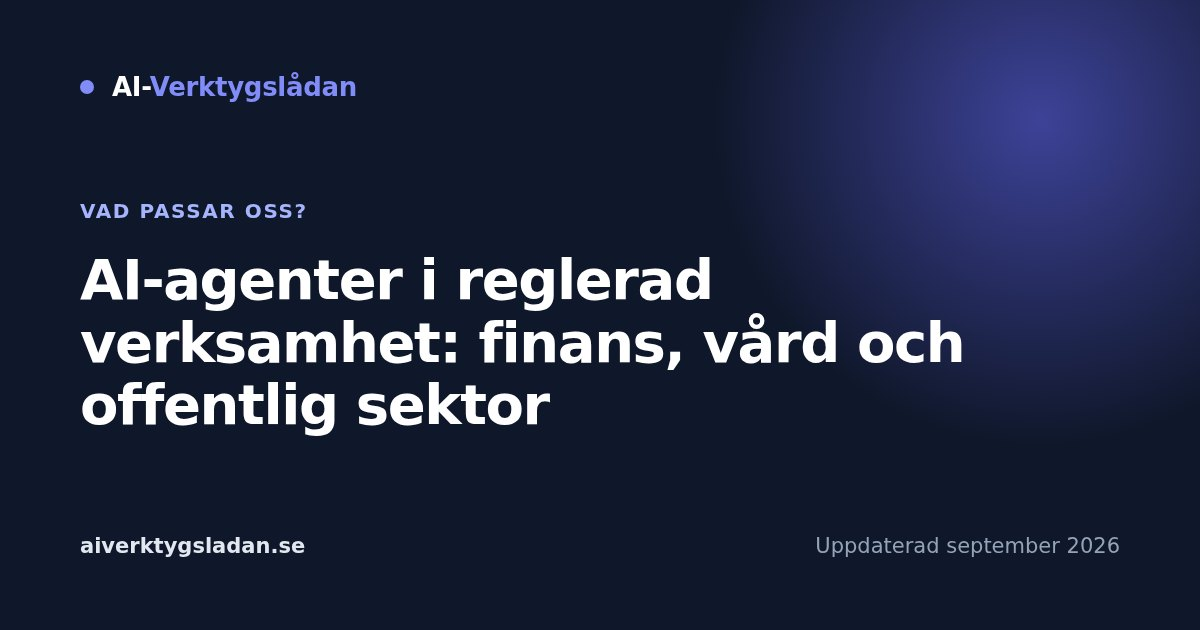
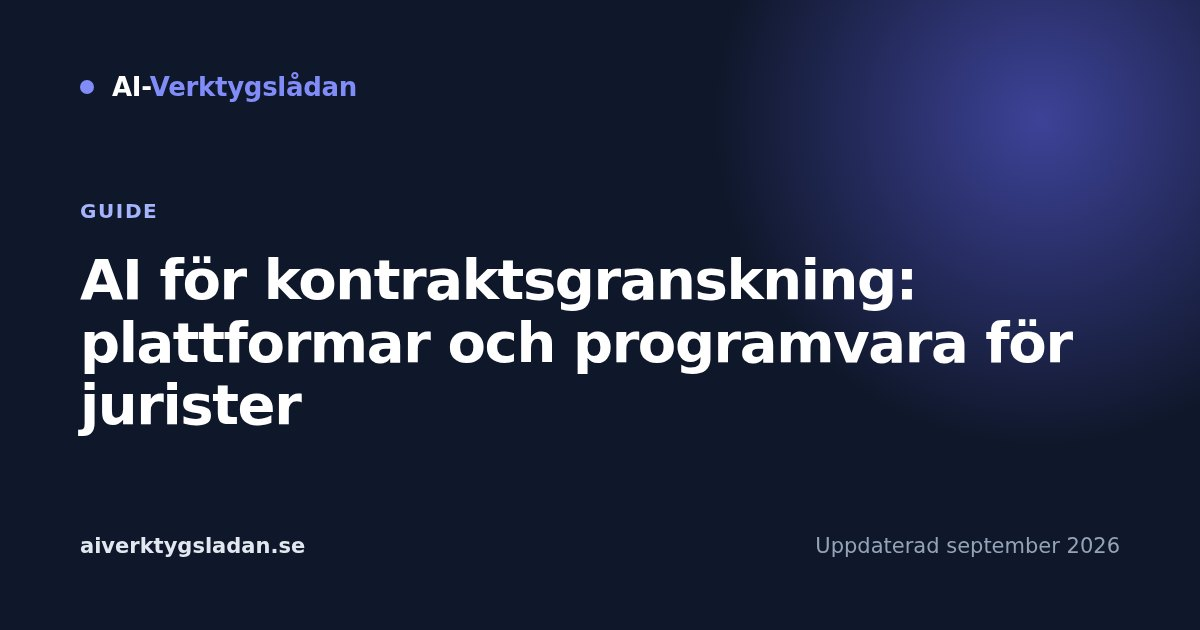
Kontraktsgranskning: svar på startsidan, ny title/H1/OG-bild och internlänkar

Changed region(s): [[0.0617, 0.3921, 0.8942, 0.6937], [0.0617, 0.3016, 0.2467, 0.3619]]

diff --git a/static/ai-kontraktsgranskning-advokatbyra.html b/static/ai-kontraktsgranskning-advokatbyra.html
@@ -12,7 +12,7 @@
 
     <meta charset="UTF-8">
     <meta name="viewport" content="width=device-width, initial-scale=1.0">
-    <title>AI-agent för kontraktsgranskning på advokatbyrå – plattformar och kalkyl | AI-Verktygslådan</title>
+    <title>AI för kontraktsgranskning: plattformar och programvara för jurister | AI-Verktygslådan</title>
     <link rel="stylesheet" href="/static/css/site.css">
     <link rel="preconnect" href="https://fonts.googleapis.com">
     <link rel="preconnect" href="https://fonts.gstatic.com" crossorigin>
@@ -21,12 +21,12 @@
     <!-- SEO -->
     <link rel="icon" type="image/svg+xml" href="/static/favicon.svg">
     <meta name="robots" content="index, follow">
-    <meta name="description" content="Vilka AI-plattformar för jurister snabbar upp kontraktsgranskning? En agent förgranskar mot checklista och flaggar avvikelser – juristen beslutar alltid.">
+    <meta name="description" content="Vilka AI-plattformar och vilken programvara för kontraktsgranskning passar jurister? Färdiga verktyg eller egen AI-agent – juristen beslutar alltid.">
     <link rel="canonical" href="https://aiverktygsladan.se/ai-kontraktsgranskning-advokatbyra.html">
 
     <!-- OpenGraph -->
-    <meta property="og:title" content="AI-agent för kontraktsgranskning på advokatbyrå – plattformar och kalkyl">
-    <meta property="og:description" content="Vilka AI-plattformar för jurister snabbar upp kontraktsgranskning? En agent förgranskar mot checklista och flaggar avvikelser – juristen beslutar alltid.">
+    <meta property="og:title" content="AI för kontraktsgranskning: plattformar och programvara för jurister">
+    <meta property="og:description" content="Vilka AI-plattformar och vilken programvara för kontraktsgranskning passar jurister? Färdiga verktyg eller egen AI-agent – juristen beslutar alltid.">
     <meta property="og:type" content="article">
     <meta property="og:url" content="https://aiverktygsladan.se/ai-kontraktsgranskning-advokatbyra.html">
     <meta property="og:locale" content="sv_SE">
@@ -100,15 +100,15 @@
     <meta property="og:image" content="https://aiverktygsladan.se/static/og/ai-kontraktsgranskning-advokatbyra.jpg">
     <meta property="og:image:width" content="1200">
     <meta property="og:image:height" content="630">
-    <meta property="og:image:alt" content="AI-agent för kontraktsgranskning på advokatbyrå – plattformar och kalkyl">
+    <meta property="og:image:alt" content="AI för kontraktsgranskning: plattformar och programvara för jurister">
     <meta name="twitter:card" content="summary_large_image">
-    <meta name="twitter:title" content="AI-agent för kontraktsgranskning på advokatbyrå – plattformar och kalkyl">
-    <meta name="twitter:description" content="Vilka AI-plattformar för jurister snabbar upp kontraktsgranskning? En agent förgranskar mot checklista och flaggar avvikelser – juristen beslutar alltid.">
+    <meta name="twitter:title" content="AI för kontraktsgranskning: plattformar och programvara för jurister">
+    <meta name="twitter:description" content="Vilka AI-plattformar och vilken programvara för kontraktsgranskning passar jurister? Färdiga verktyg eller egen AI-agent – juristen beslutar alltid.">
     <meta name="twitter:image" content="https://aiverktygsladan.se/static/og/ai-kontraktsgranskning-advokatbyra.jpg">
     <link rel="alternate" hreflang="sv-SE" href="https://aiverktygsladan.se/ai-kontraktsgranskning-advokatbyra.html">
     <link rel="alternate" hreflang="x-default" href="https://aiverktygsladan.se/ai-kontraktsgranskning-advokatbyra.html">
     <meta name="article:published_time" content="2026-10-10">
-    <meta name="article:modified_time" content="2026-10-10">
+    <meta name="article:modified_time" content="2026-10-16">
     <script type="application/ld+json">
 {
   "@context": "https://schema.org",
@@ -149,14 +149,14 @@
       "@type": "WebPage",
       "@id": "https://aiverktygsladan.se/ai-kontraktsgranskning-advokatbyra.html#webpage",
       "url": "https://aiverktygsladan.se/ai-kontraktsgranskning-advokatbyra.html",
-      "name": "AI-agent för kontraktsgranskning på advokatbyrå – plattformar och kalkyl",
-      "description": "Vilka AI-plattformar för jurister snabbar upp kontraktsgranskning? En agent förgranskar mot checklista och flaggar avvikelser – juristen beslutar alltid.",
+      "name": "AI för kontraktsgranskning: plattformar och programvara för jurister",
+      "description": "Vilka AI-plattformar och vilken programvara för kontraktsgranskning passar jurister? Färdiga verktyg eller egen AI-agent – juristen beslutar alltid.",
       "inLanguage": "sv-SE",
       "isPartOf": {
         "@id": "https://aiverktygsladan.se/#website"
       },
       "datePublished": "2026-10-10",
-      "dateModified": "2026-10-10",
+      "dateModified": "2026-10-16",
       "breadcrumb": {
         "@id": "https://aiverktygsladan.se/ai-kontraktsgranskning-advokatbyra.html#breadcrumb"
       }
@@ -174,7 +174,7 @@
         {
           "@type": "ListItem",
           "position": 2,
-          "name": "AI-agent för kontraktsgranskning på advokatbyrå – plattformar och kalkyl"
+          "name": "AI för kontraktsgranskning: plattformar och programvara för jurister"
         }
       ]
     },
@@ -187,12 +187,12 @@
       "mainEntityOfPage": {
         "@id": "https://aiverktygsladan.se/ai-kontraktsgranskning-advokatbyra.html#webpage"
       },
-      "headline": "AI-agent för kontraktsgranskning på advokatbyrå – plattformar och kalkyl",
-      "description": "Vilka AI-plattformar för jurister snabbar upp kontraktsgranskning? En agent förgranskar mot checklista och flaggar avvikelser – juristen beslutar alltid.",
+      "headline": "AI för kontraktsgranskning: plattformar och programvara för jurister",
+      "description": "Vilka AI-plattformar och vilken programvara för kontraktsgranskning passar jurister? Färdiga verktyg eller egen AI-agent – juristen beslutar alltid.",
       "inLanguage": "sv-SE",
       "datePublished": "2026-10-10",
-      "dateModified": "2026-10-10",
-      "wordCount": 2737,
+      "dateModified": "2026-10-16",
+      "wordCount": 2728,
       "author": {
         "@id": "https://aiverktygsladan.se/#organization"
       },
@@ -243,14 +243,14 @@
     <nav aria-label="Brödsmulor" class="max-w-7xl mx-auto px-6 pt-6 text-sm text-slate-500 flex flex-wrap gap-2 items-center">
         <a href="/" class="hover:text-indigo-600 transition-colors">Hem</a>
         <span class="text-slate-300" aria-hidden="true">/</span>
-        <span class="text-slate-700">AI-agent för kontraktsgranskning på advokatbyrå – plattformar och kalkyl</span>
+        <span class="text-slate-700">AI för kontraktsgranskning: plattformar och programvara för jurister</span>
     </nav>
     <!-- /@breadcrumbs -->
 
     <header class="py-20 px-6 max-w-4xl mx-auto text-center fade-in">
         <div class="inline-block bg-indigo-50 text-indigo-700 text-xs font-bold uppercase tracking-wider px-4 py-2 rounded-full mb-6">Advokatbyrå 5&ndash;50 anst. &middot; Oktober 2026</div>
-        <h1 class="text-4xl md:text-6xl font-extrabold mb-6 tracking-tight leading-tight">AI-agent för <span class="gradient-text">kontraktsgranskning</span> på advokatbyrå</h1>
-        <p class="text-xl text-slate-600 leading-relaxed">Vilka AI-plattformar för jurister snabbar upp kontraktsgranskning &ndash; och vilken programvara passar bäst för due diligence? Svaret är: en agent som förgranskar mot er checklista och flaggar avvikelser. Juristen bedömer, beslutar och ansvarar. Agenten tar bort de repetitiva läsningarna; den ersätter inte juristens omdöme.</p>
+        <h1 class="text-4xl md:text-6xl font-extrabold mb-6 tracking-tight leading-tight">Vilka AI-plattformar hjälper jurister med <span class="gradient-text">kontraktsgranskning</span>?</h1>
+        <p class="text-xl text-slate-600 leading-relaxed">Det finns tre vägar: AI-plattformar för jurister, färdig programvara för kontraktsgranskning eller en egen AI-agent mot byråns mallar och klausulbibliotek. Alla tre förgranskar och flaggar avvikelser; valet styrs av sekretess, var dokumenten ligger och volym. Juristen bedömer, beslutar och ansvarar.</p>
     </header>
 
     <section class="px-6 pb-4">

diff --git a/static/index.html b/static/index.html
@@ -76,7 +76,7 @@
     <link rel="alternate" hreflang="sv-SE" href="https://aiverktygsladan.se/">
     <link rel="alternate" hreflang="x-default" href="https://aiverktygsladan.se/">
     <meta name="article:published_time" content="2026-04-14">
-    <meta name="article:modified_time" content="2026-10-11">
+    <meta name="article:modified_time" content="2026-10-16">
     <script type="application/ld+json">
 {
   "@context": "https://schema.org",
@@ -124,7 +124,7 @@
         "@id": "https://aiverktygsladan.se/#website"
       },
       "datePublished": "2026-04-14",
-      "dateModified": "2026-10-11",
+      "dateModified": "2026-10-16",
       "breadcrumb": {
         "@id": "https://aiverktygsladan.se/#breadcrumb"
       }
@@ -209,6 +209,29 @@
         </div>
     </section>
 
+
+    <section class="px-6 pb-8">
+        <div class="max-w-4xl mx-auto bg-white rounded-3xl border-2 border-indigo-200 p-8 md:p-10">
+            <h2 class="text-2xl md:text-3xl font-extrabold mb-4">Vilka AI-plattformar för jurister hjälper till med kontraktsgranskning?</h2>
+            <p class="text-lg text-slate-700 leading-relaxed">Det finns två huvudvägar: färdig juridisk programvara för kontraktsgranskning, alltså specialiserade legal-tech-verktyg, eller en egen AI-agent byggd på en språkmodell med byråns egna mallar och klausulbibliotek. Valet avgörs av sekretess och GDPR, var dokumenten ligger och hur stor volym ni granskar. Se <a href="/ai-kontraktsgranskning-advokatbyra.html" class="text-indigo-600 font-semibold hover:underline">jämförelse och räknat exempel för advokatbyråer</a>.</p>
+        </div>
+    </section>
+    <script type="application/ld+json">
+{
+  "@context": "https://schema.org",
+  "@type": "FAQPage",
+  "mainEntity": [
+    {
+      "@type": "Question",
+      "name": "Vilka AI-plattformar för jurister hjälper till med kontraktsgranskning?",
+      "acceptedAnswer": {
+        "@type": "Answer",
+        "text": "Det finns två huvudvägar: färdig juridisk programvara för kontraktsgranskning, alltså specialiserade legal-tech-verktyg, eller en egen AI-agent byggd på en språkmodell med byråns egna mallar och klausulbibliotek. Valet avgörs av sekretess och GDPR, var dokumenten ligger och hur stor volym ni granskar. Se jämförelse och räknat exempel för advokatbyråer."
+      }
+    }
+  ]
+}
+    </script>
 
     <section class="py-16 px-6">
         <div class="max-w-5xl mx-auto bg-white rounded-3xl border-2 border-indigo-200 overflow-hidden">

diff --git a/static/bygg-ai-agent.html b/static/bygg-ai-agent.html
@@ -79,7 +79,7 @@
     <link rel="alternate" hreflang="sv-SE" href="https://aiverktygsladan.se/bygg-ai-agent.html">
     <link rel="alternate" hreflang="x-default" href="https://aiverktygsladan.se/bygg-ai-agent.html">
     <meta name="article:published_time" content="2026-09-11">
-    <meta name="article:modified_time" content="2026-10-11">
+    <meta name="article:modified_time" content="2026-10-16">
     <script type="application/ld+json">
 {
   "@context": "https://schema.org",
@@ -127,7 +127,7 @@
         "@id": "https://aiverktygsladan.se/#website"
       },
       "datePublished": "2026-09-11",
-      "dateModified": "2026-10-11",
+      "dateModified": "2026-10-16",
       "breadcrumb": {
         "@id": "https://aiverktygsladan.se/bygg-ai-agent.html#breadcrumb"
       }
@@ -168,8 +168,8 @@
       "description": "Steg-för-steg-guide med kodexempel: välj rätt uppgift, ge agenten verktyg, bygg loopen, utvärdera med 20 testfall och sätt spärrar innan ni driftsätter.",
       "inLanguage": "sv-SE",
       "datePublished": "2026-09-11",
-      "dateModified": "2026-10-11",
-      "wordCount": 2166,
+      "dateModified": "2026-10-16",
+      "wordCount": 2189,
       "author": {
         "@id": "https://aiverktygsladan.se/#organization"
       },
@@ -238,6 +238,7 @@
             <h2 class="text-sm font-bold uppercase tracking-wider text-indigo-600 mb-3">Kort svar</h2>
             <p class="text-xl font-bold leading-snug mb-4 text-slate-900">En första fungerande AI-agent byggs på dagar, inte månader. Sju steg: välj en uppgift som går att utvärdera, skriv ned hur en människa gör den i dag, ge agenten verktyg i stället för kunskap, bygg loopen, bygg tjugo testfall, sätt spärrar i koden, driftsätt smalt och mät.</p>
             <p class="text-slate-600 leading-relaxed">Steg 1 och steg 5 avgör projektet. De är också de två som oftast hoppas över &ndash; och det är därför de flesta agenter aldrig lämnar pilotstadiet.</p>
+            <p class="text-slate-600 leading-relaxed mt-3">Ett exempel på en avgränsad uppgift att börja med: <a href="/ai-kontraktsgranskning-advokatbyra.html" class="text-indigo-600 font-semibold hover:underline">programvara för kontraktsgranskning eller en egen agent</a>, där en jurist fattar alla beslut.</p>
         </div>
     </section>
 

diff --git a/static/vad-ar-ai-agenter.html b/static/vad-ar-ai-agenter.html
@@ -108,7 +108,7 @@
     <link rel="alternate" hreflang="sv-SE" href="https://aiverktygsladan.se/vad-ar-ai-agenter.html">
     <link rel="alternate" hreflang="x-default" href="https://aiverktygsladan.se/vad-ar-ai-agenter.html">
     <meta name="article:published_time" content="2026-09-11">
-    <meta name="article:modified_time" content="2026-10-11">
+    <meta name="article:modified_time" content="2026-10-16">
     <script type="application/ld+json">
 {
   "@context": "https://schema.org",
@@ -156,7 +156,7 @@
         "@id": "https://aiverktygsladan.se/#website"
       },
       "datePublished": "2026-09-11",
-      "dateModified": "2026-10-11",
+      "dateModified": "2026-10-16",
       "breadcrumb": {
         "@id": "https://aiverktygsladan.se/vad-ar-ai-agenter.html#breadcrumb"
       }
@@ -197,8 +197,8 @@
       "description": "En AI-agent är en språkmodell med mål, verktyg och rätt att agera i flera steg. Definitionen, skillnaden mot chatbot och automation, och när du bör avstå.",
       "inLanguage": "sv-SE",
       "datePublished": "2026-09-11",
-      "dateModified": "2026-10-11",
-      "wordCount": 2179,
+      "dateModified": "2026-10-16",
+      "wordCount": 2201,
       "author": {
         "@id": "https://aiverktygsladan.se/#organization"
       },
@@ -267,6 +267,7 @@
             <h2 class="text-sm font-bold uppercase tracking-wider text-indigo-600 mb-3">Definitionen, kort</h2>
             <p class="text-2xl font-bold leading-snug mb-4">En AI-agent är ett program där en språkmodell får ett <span class="text-indigo-600">mål</span>, tillgång till <span class="text-indigo-600">verktyg</span> och rätt att köra <span class="text-indigo-600">flera steg i rad</span> tills målet är nått.</p>
             <p class="text-slate-600 leading-relaxed">Allt annat är detaljer. Om något av de tre saknas är det inte en agent: utan verktyg är det en chatbot, utan egna steg är det ett skript, utan mål är det en textruta.</p>
+            <p class="text-slate-600 leading-relaxed mt-3">Ett konkret fall från en reglerad bransch: <a href="/ai-kontraktsgranskning-advokatbyra.html" class="text-indigo-600 font-semibold hover:underline">så kan en jurist använda en AI-agent</a> för att förgranska kontrakt medan juristen behåller ansvaret.</p>
         </div>
     </section>
 

diff --git a/static/ai-agent-ramverk.html b/static/ai-agent-ramverk.html
@@ -100,7 +100,7 @@
     <link rel="alternate" hreflang="sv-SE" href="https://aiverktygsladan.se/ai-agent-ramverk.html">
     <link rel="alternate" hreflang="x-default" href="https://aiverktygsladan.se/ai-agent-ramverk.html">
     <meta name="article:published_time" content="2026-09-11">
-    <meta name="article:modified_time" content="2026-10-11">
+    <meta name="article:modified_time" content="2026-10-16">
     <script type="application/ld+json">
 {
   "@context": "https://schema.org",
@@ -148,7 +148,7 @@
         "@id": "https://aiverktygsladan.se/#website"
       },
       "datePublished": "2026-09-11",
-      "dateModified": "2026-10-11",
+      "dateModified": "2026-10-16",
       "breadcrumb": {
         "@id": "https://aiverktygsladan.se/ai-agent-ramverk.html#breadcrumb"
       }
@@ -189,8 +189,8 @@
       "description": "LangGraph, n8n, CrewAI, Claude och OpenAI Agents SDK jämförda för svenska förhållanden. Ett beslutsträd som ger ett svar, plus varför MCP gör valet ofarligt.",
       "inLanguage": "sv-SE",
       "datePublished": "2026-09-11",
-      "dateModified": "2026-10-11",
-      "wordCount": 1982,
+      "dateModified": "2026-10-16",
+      "wordCount": 2005,
       "author": {
         "@id": "https://aiverktygsladan.se/#organization"
       },
@@ -259,6 +259,7 @@
             <h2 class="text-xl font-bold mb-3">Läs det här först</h2>
             <p class="text-slate-700 leading-relaxed mb-3">Ramverket är det minst avgörande valet ni gör. Agentprojekt kraschar på otydliga uppgifter, saknad data och obefintlig utvärdering – i stort sett aldrig på att någon valde fel bibliotek.</p>
             <p class="text-slate-700 leading-relaxed">Lägg en timme på det här valet, inte tre veckor. Och bygg så att ni kan byta: håller ni verktygen bakom <a href="#mcp" class="text-indigo-700 font-semibold underline">MCP</a> och logiken utanför ramverket kostar ett byte dagar i stället för månader.</p>
+            <p class="text-slate-700 leading-relaxed mt-3">Hur valet mellan färdig programvara och egen agent ser ut i en reglerad bransch visar guiden om <a href="/ai-kontraktsgranskning-advokatbyra.html" class="text-indigo-600 font-semibold hover:underline">AI för kontraktsgranskning på advokatbyrå</a>.</p>
         </div>
     </section>
 
